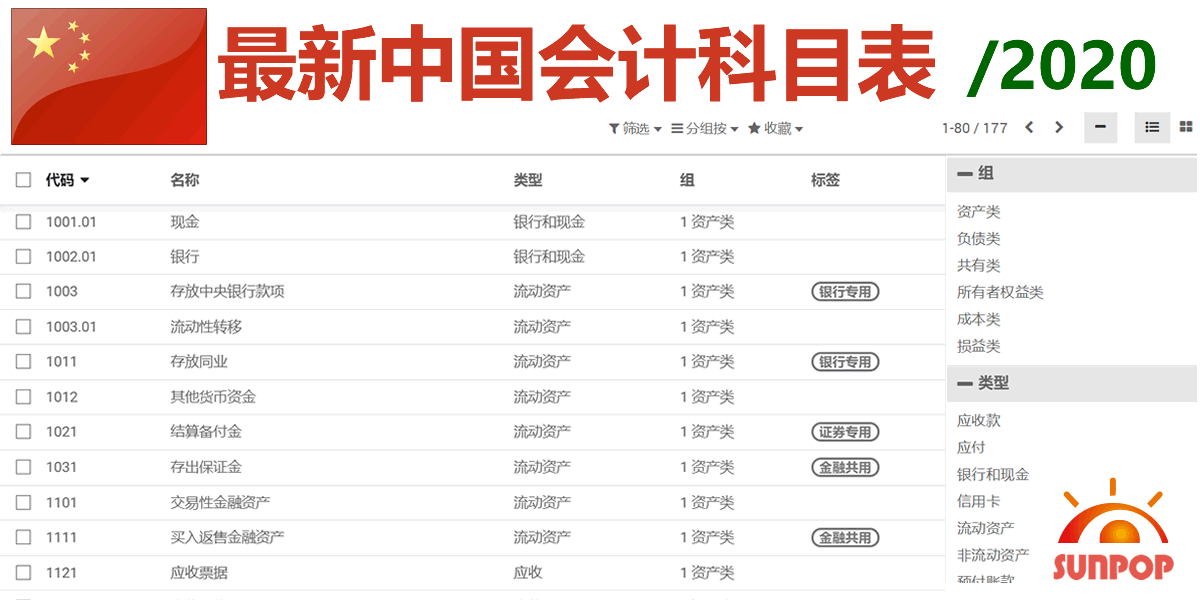
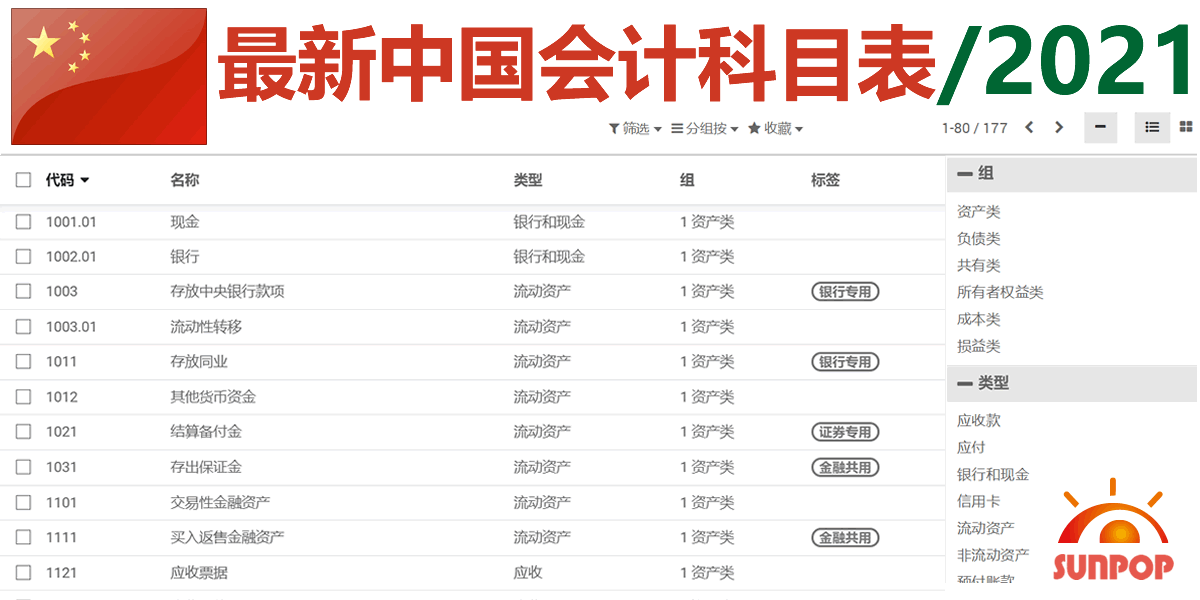
update cn

Changed region(s): [[0.7708, 0.03, 1.0, 0.18]]

diff --git a/l10n_cn_standard_latest/static/description/index.html b/l10n_cn_standard_latest/static/description/index.html
@@ -1,10 +1,10 @@
 <section class="oe_container">
     <div class="oe_row oe_spaced">
         <div class="oe_span12">
-            <h2 class="oe_slogan">App Latest Chinese Account chart 2020.</h2>
+            <h2 class="oe_slogan">App Latest Chinese Account chart 2021.</h2>
             <h3 class="oe_slogan">Set all chinese default value. Like Default country, timezone, currency, partner... </h3>
             <div class="oe_row">
-                <h3>Lastest update: v13.19.11.13</h3>
+                <h3>Lastest update: v14.20.06.09</h3>
                 <div class="oe_span12">
                     <img class="oe_demo oe_screenshot" src="banner.png">
                 </div>
@@ -14,7 +14,7 @@
                         <ul class="list-unstyled">
                             <li>
                                 <i class="fa fa-check-square-o text-primary"></i>
-                                The Latest Account Chart.
+                                The Latest Account Chart for Odoo14.
                             </li>
                         </ul>
                     </div>

diff --git a/l10n_cn_standard_latest/__manifest__.py b/l10n_cn_standard_latest/__manifest__.py
@@ -9,7 +9,7 @@
 
 {
     'name': '2021最新中国企业会计表.Latest Chinese Accounting.',
-    'version': '14.20.10.30',
+    'version': '14.21.06.09',
     'author': 'Sunpop.cn',
     'category': 'Localization',
     'website': 'https://www.sunpop.cn',
@@ -23,7 +23,7 @@
     'description': """
     
     最新中国化财务，主要针对标准会计科目表作了优化。
-    1. 2020最新会计科目表，处理营改增后会计科目调整。更新至最新税率。
+    1. 2021最新会计科目表，处理营改增后会计科目调整。更新至最新税率。odoo 14专用。
     2. 将菜单中设置为"财务"。
     3. 补充分类及标签信息。
     4. 更新税信息。
@@ -31,7 +31,7 @@
     6. 使用金蝶的会计科目命名法对多级科目进行初始化。可自行调整为用友科目命名法
     7. 注意，必须在没有业务数据，没有会计科目的初始环境。可以使用 "app_odoo_customize" 模块清除财务数据，重置会计科目。
      
-    如果是多语种环境需要自行更改翻译，主要体现在13%增值税处理。
+    如果是多语种环境需要自行更改翻译，主要体现在3%,6%,13%增值税处理。
     广州尚鹏，Sunpop.cn
         
     The Latest Chinese Account
